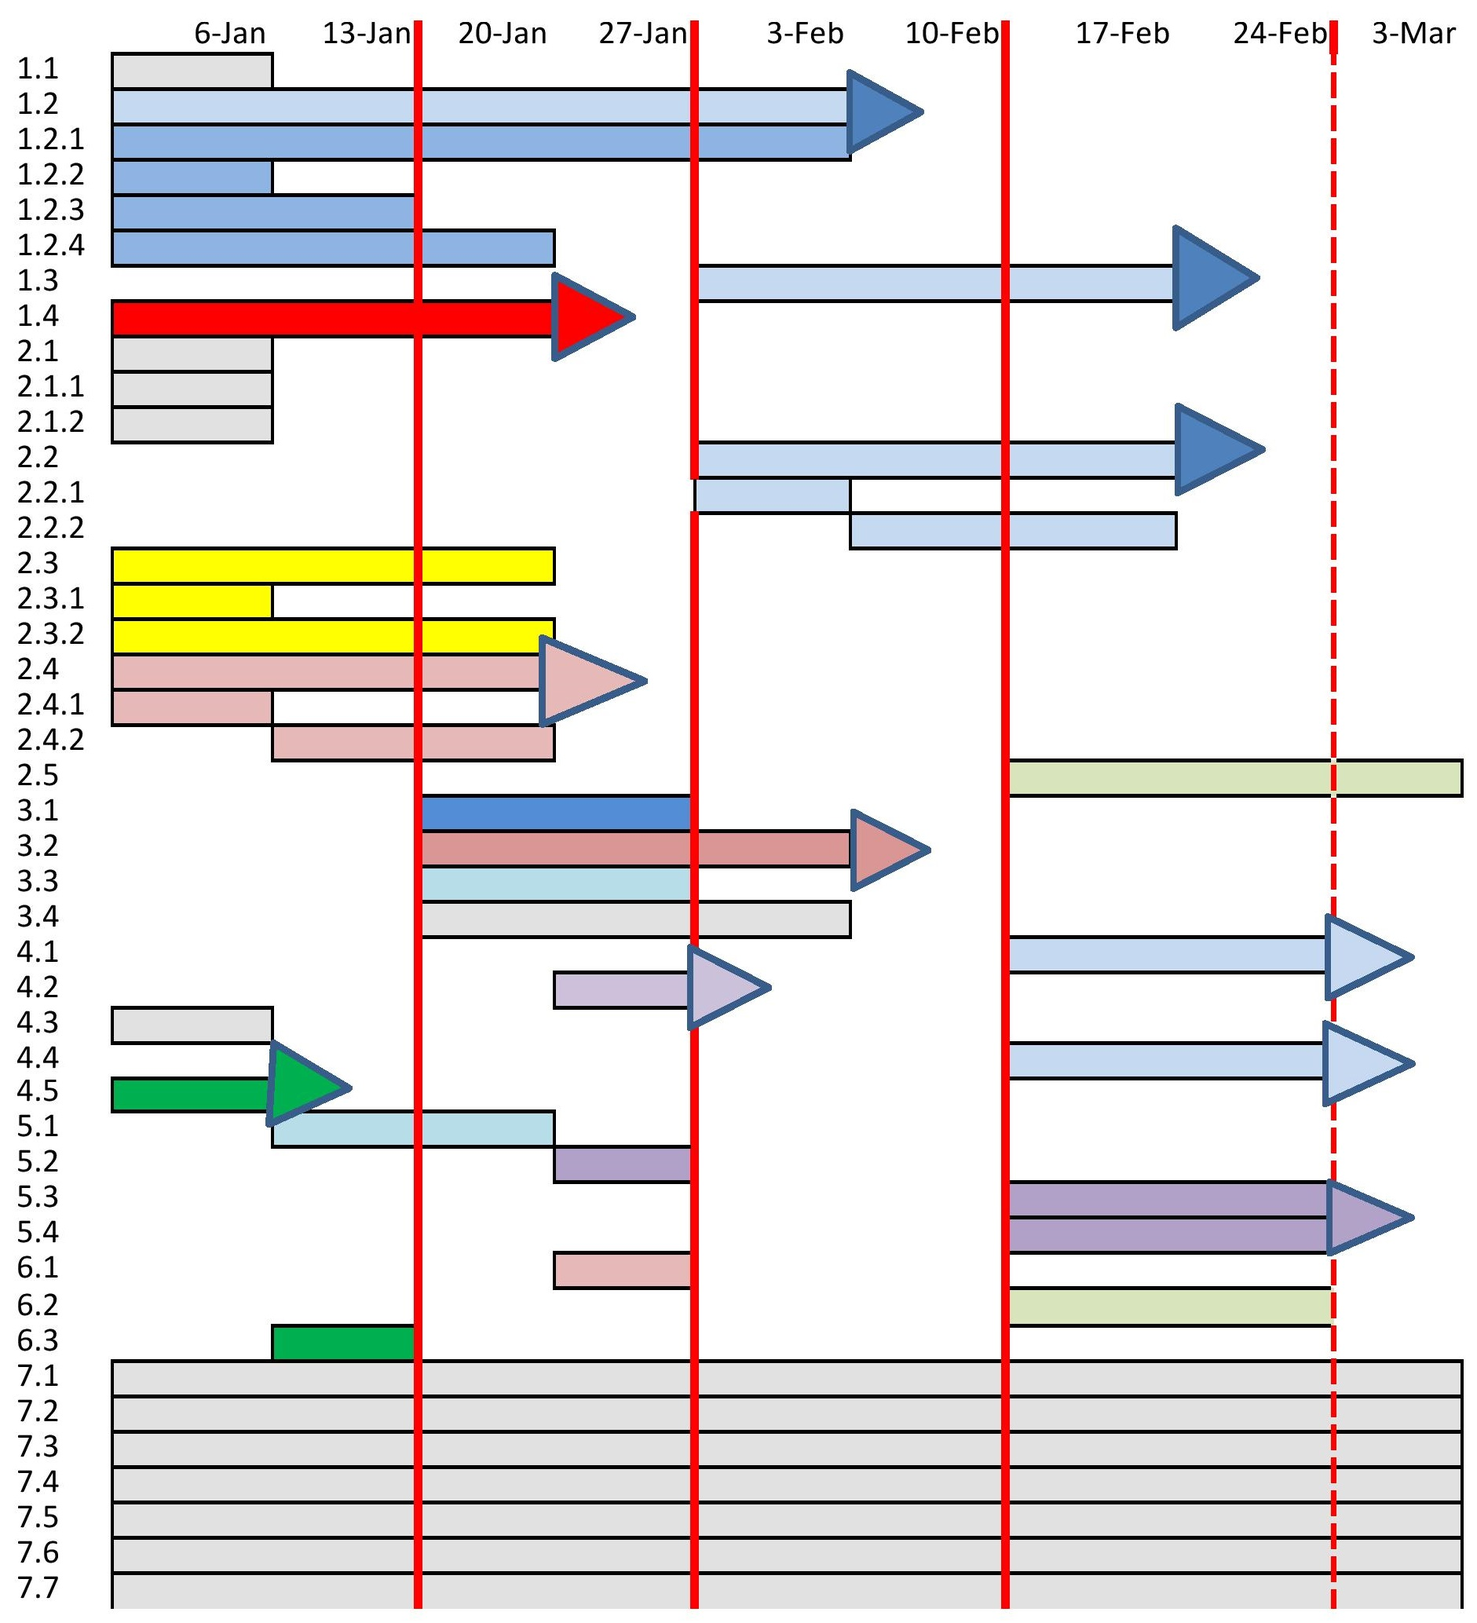
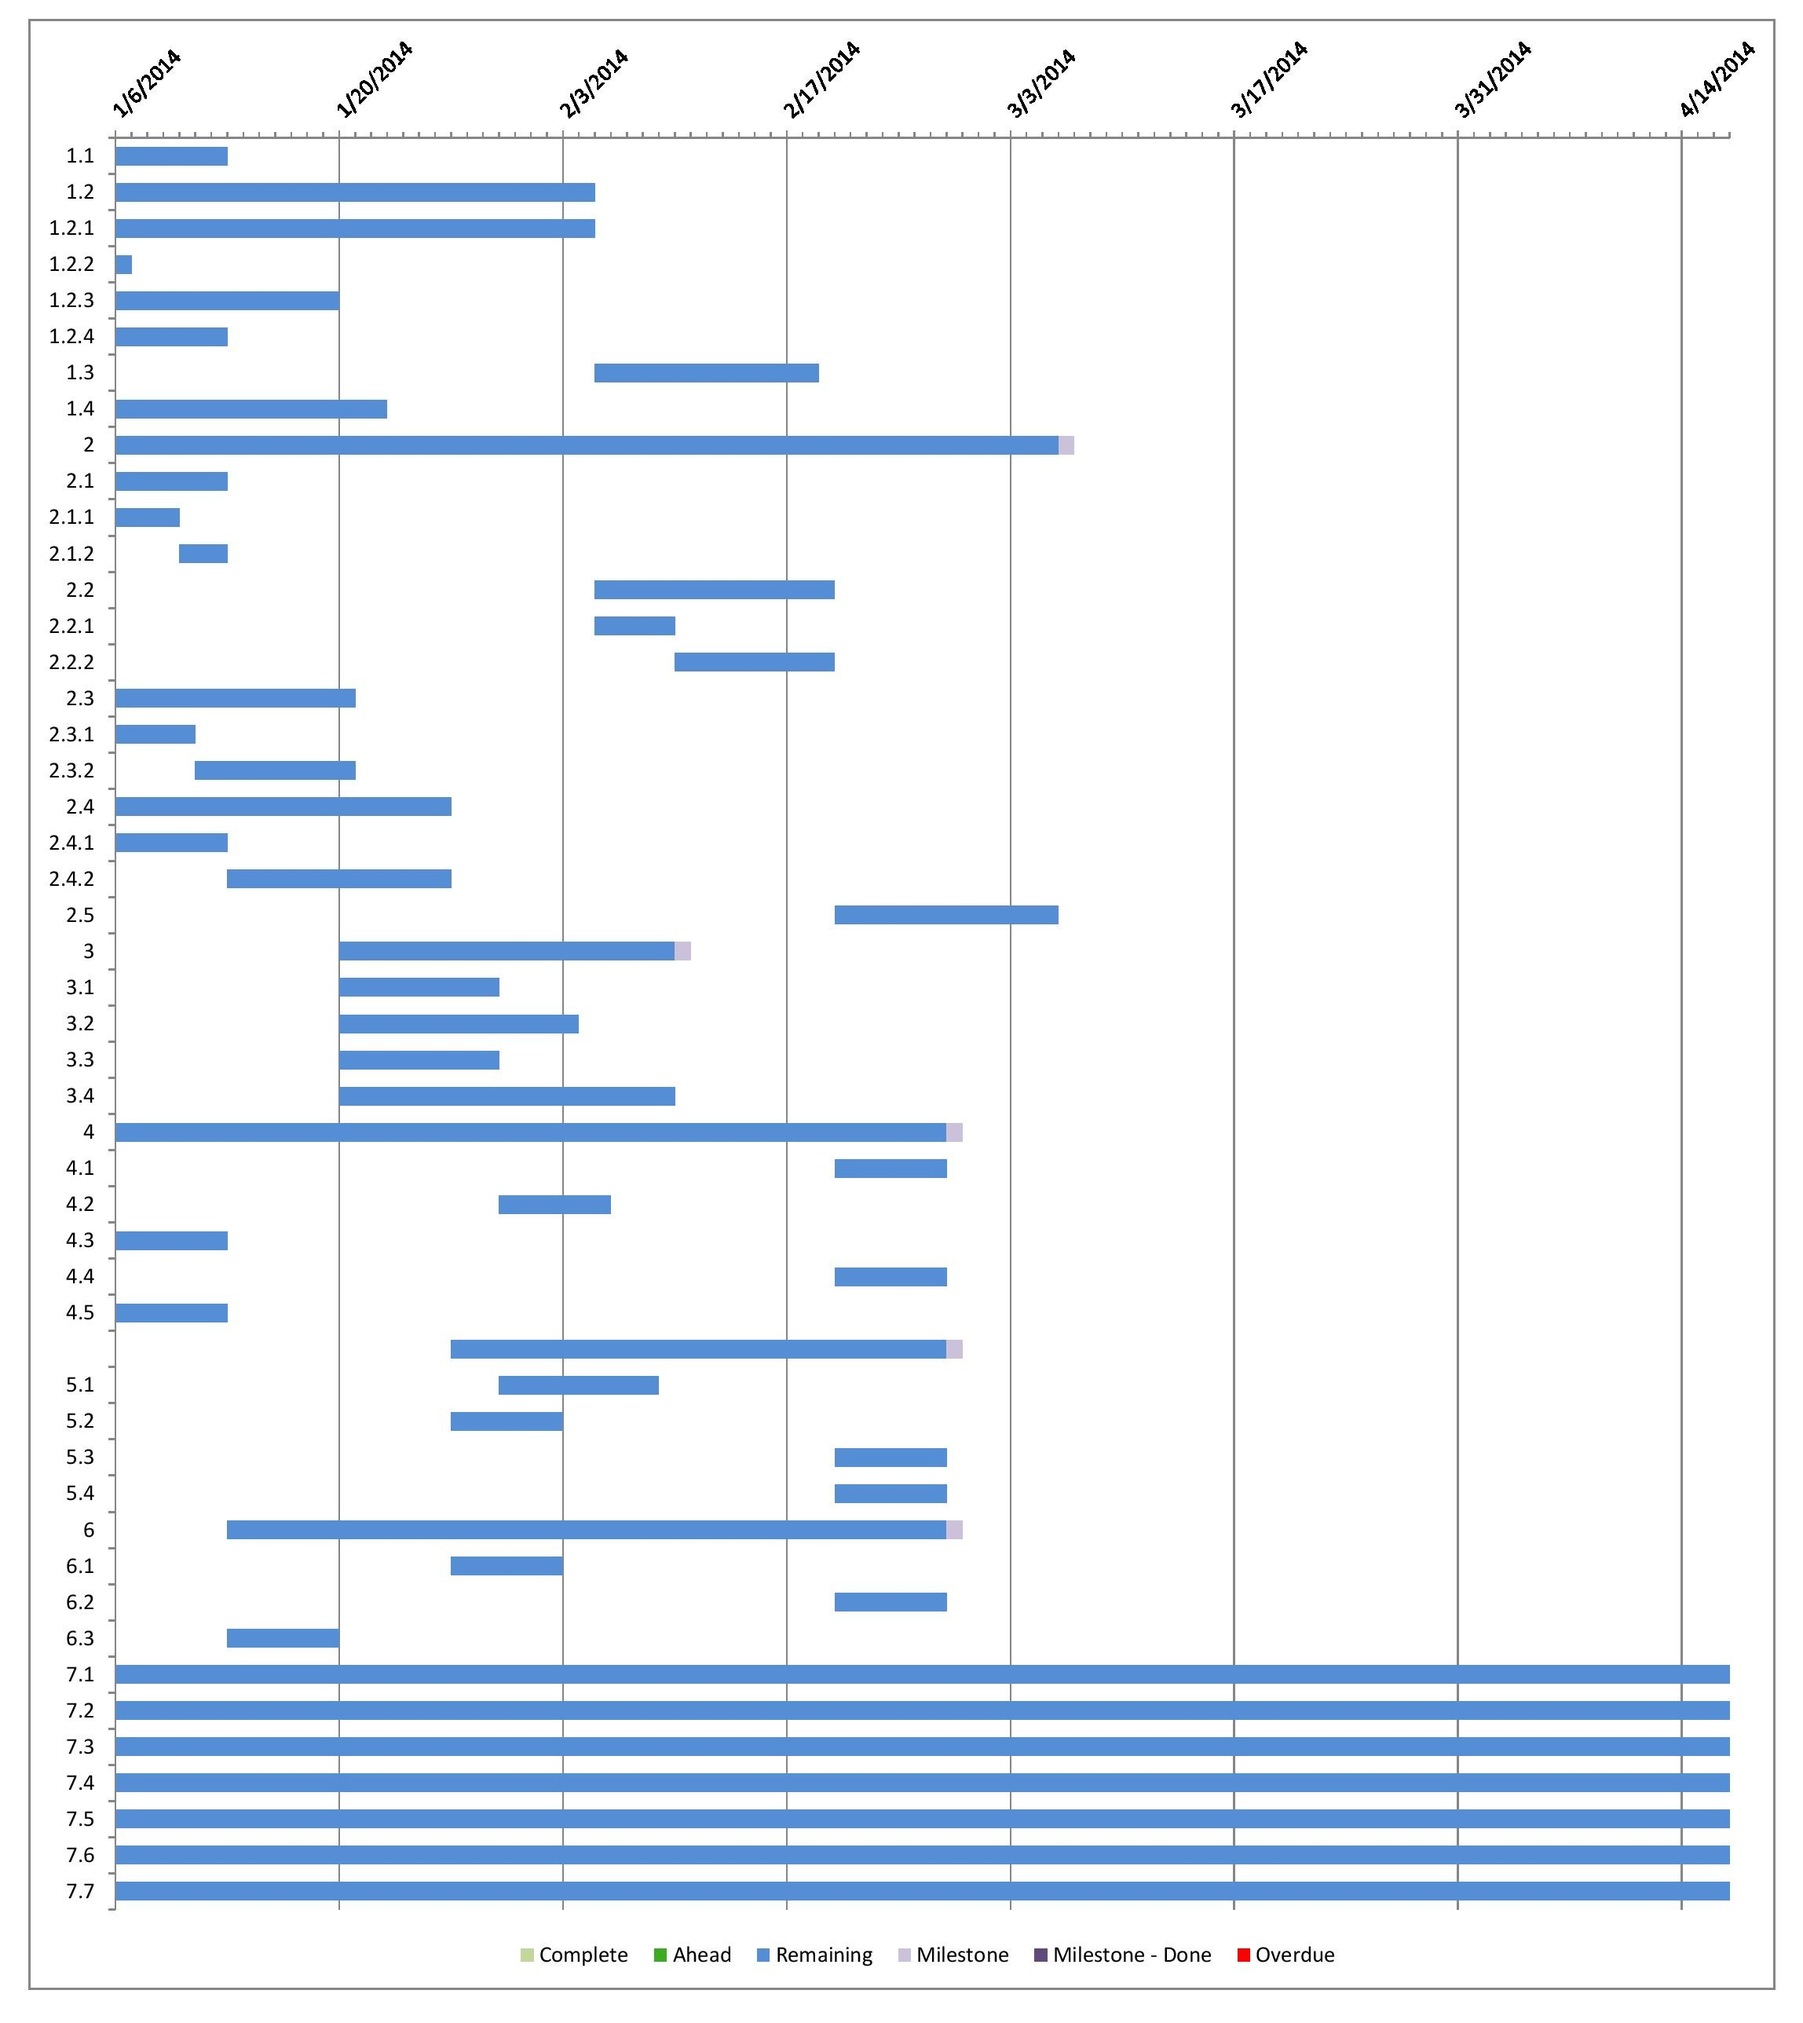
Update to pretty Gantt Chart and not Gantt Shart

diff --git a/project-plan/project-management-and-control.tex b/project-plan/project-management-and-control.tex
@@ -197,8 +197,8 @@ Key:
 \begin{figure}[H]
 \centering
 \includegraphics[width=1\textwidth]{gantt.jpg}
-\caption{Activity on Node}
-\label{fig:Activity on Node}
+\caption{Gantt Chart}
+\label{fig:Gantt Chart}
 \end{figure}
 \subsection{Landmark Schedule}
 Each landmark is marked on the Gantt Chart with a purple square.
